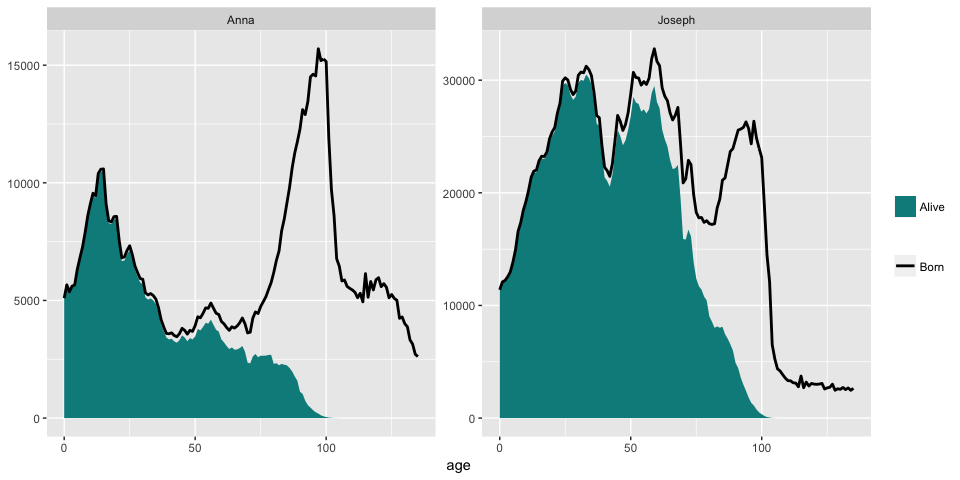
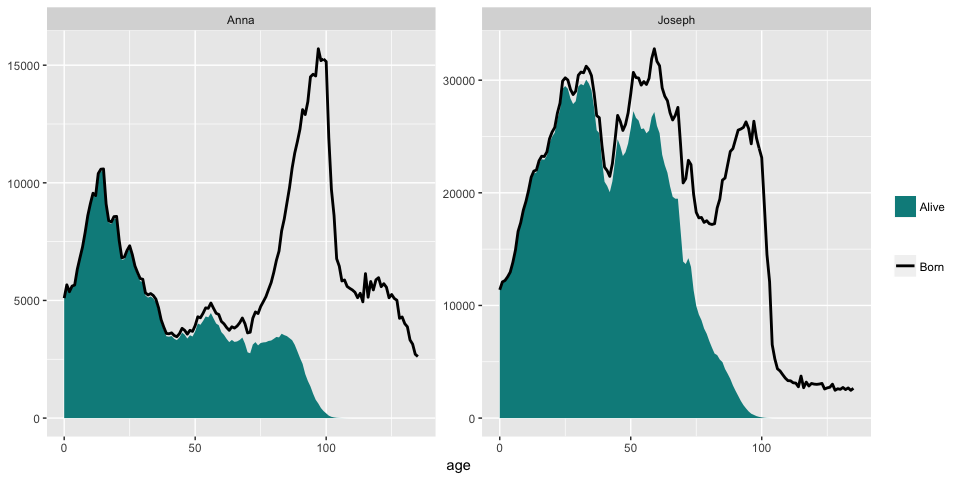
updated README with new interpolation

diff --git a/README.md b/README.md
@@ -34,48 +34,48 @@ library(nameage)
 names = c("Ava", "liam", "Jack", "ELLA", "gertrude", "elmer", "Violet")
 
 nameage(names, base_year = 2015)
-#> # A tibble: 7 × 8
+#> # A tibble: 7 x 8
 #>       name      n   n_alive      mean        sd    q1 median    q3
 #>      <chr>  <int>     <dbl>     <dbl>     <dbl> <dbl>  <dbl> <dbl>
-#> 1      Ava 218673 210756.22  8.295168 11.173480     3      6     9
-#> 2     ELLA 281604 162030.93 20.675174 26.450605     4      8    17
-#> 3    elmer 129647  43060.31 63.094983 24.373220    52     69    82
-#> 4 gertrude 177359  20118.93 72.937538 15.173509    65     75    84
-#> 5     Jack 670805 435342.78 41.952064 30.124809    11     46    69
-#> 6     liam 155843 154871.52  6.179128  6.826207     2      4     9
-#> 7   Violet 127793  52952.24 28.766640 32.488454     3      8    63
+#> 1      Ava 218673 211933.04  8.565290 11.895632     3      6     9
+#> 2     ELLA 281604 170996.91 23.702506 28.987314     4      9    47
+#> 3    elmer 129647  34744.58 58.583760 24.460978    45     65    77
+#> 4 gertrude 177359  28260.08 76.450368 14.851850    68     79    87
+#> 5     Jack 670805 393056.09 38.155401 28.934937    10     35    65
+#> 6     liam 155843 154631.51  6.160169  6.783567     2      4     9
+#> 7   Violet 127793  59330.14 34.583680 35.197413     3     11    72
 ```
 
 The average age of people with a given name changes depending on the effective year. People named Violet were in general much older in 1990 than they are today.
 
 ``` r
 nameage(names, base_year = 1990)
-#> # A tibble: 7 × 8
+#> # A tibble: 7 x 8
 #>       name      n    n_alive     mean        sd    q1 median    q3
 #>      <chr>  <int>      <dbl>    <dbl>     <dbl> <dbl>  <dbl> <dbl>
-#> 1      Ava  16333  12731.433 34.51864 19.188965    22     34    43
-#> 2     ELLA 156965  79019.361 52.66651 17.598272    41     55    66
-#> 3    elmer 124568  84292.715 57.10297 17.392310    48     62    70
-#> 4 gertrude 177020  73505.317 62.89247 13.372459    56     66    72
-#> 5     Jack 489076 400380.078 47.95604 18.365936    36     51    62
-#> 6     liam   3108   3057.442 10.70789  9.150351     3      8    16
-#> 7   Violet  94798  54096.083 56.94518 17.105129    49     62    69
+#> 1      Ava  16333  13598.669 36.21455 20.246055    23     35    48
+#> 2     ELLA 156965  92272.773 55.17945 18.151856    43     58    69
+#> 3    elmer 124568  71598.627 55.00142 17.462330    45     60    68
+#> 4 gertrude 177020  93380.556 65.12151 13.443510    59     68    74
+#> 5     Jack 489076 362527.842 46.42406 18.163925    34     49    61
+#> 6     liam   3108   3038.564 10.64685  9.108123     3      8    16
+#> 7   Violet  94798  64561.901 59.03853 16.903045    52     63    70
 ```
 
 Looking at just working adults.
 
 ``` r
 nameage(names, base_year = 2015, age_range = c(18, 65))
-#> # A tibble: 7 × 8
+#> # A tibble: 7 x 8
 #>       name      n    n_alive     mean        sd    q1 median    q3
 #>      <chr>  <int>      <dbl>    <dbl>     <dbl> <dbl>  <dbl> <dbl>
-#> 1      Ava  11473  10234.765 43.92403 15.564642    28     48    58
-#> 2     ELLA  22364  19378.151 49.26520 14.290764    41     54    61
-#> 3    elmer  16250  15009.057 48.20744 13.928359    39     52    60
-#> 4 gertrude   5834   4869.456 55.86964  9.379266    52     59    63
-#> 5     Jack 156823 145589.329 46.34761 15.093047    34     51    59
-#> 6     liam   9808   9630.748 24.59016  9.033471    19     20    27
-#> 7   Violet  10251   9038.958 46.37338 14.613091    34     51    59
+#> 1      Ava  11473  10722.867 44.43247 15.521935    29     49    59
+#> 2     ELLA  22364  20542.477 49.71888 14.131531    42     55    61
+#> 3    elmer  16250  14255.575 47.78234 14.019756    38     52    60
+#> 4 gertrude   5834   5244.547 56.11059  9.220711    53     59    63
+#> 5     Jack 156823 138622.649 45.86359 15.170339    33     50    59
+#> 6     liam   9808   9534.760 24.48821  8.921051    19     20    27
+#> 7   Violet  10251   9515.762 46.84895 14.539712    34     51    59
 ```
 
 The package also includes a function to plot the distribution of the ages for each name. In addition to a few arguments to control the plotting, there is an additional parameter `type` which tells whether to plot by age...
